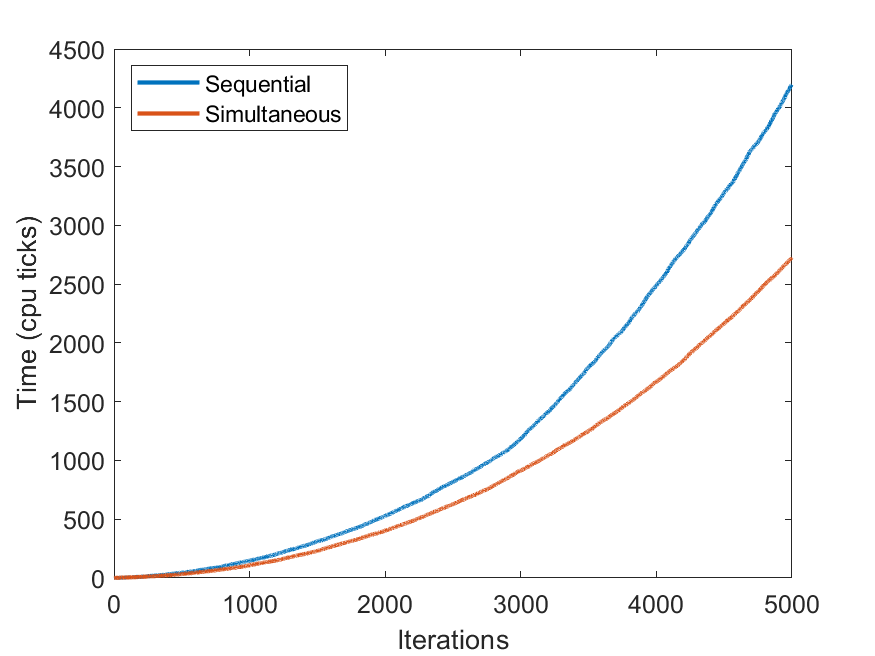
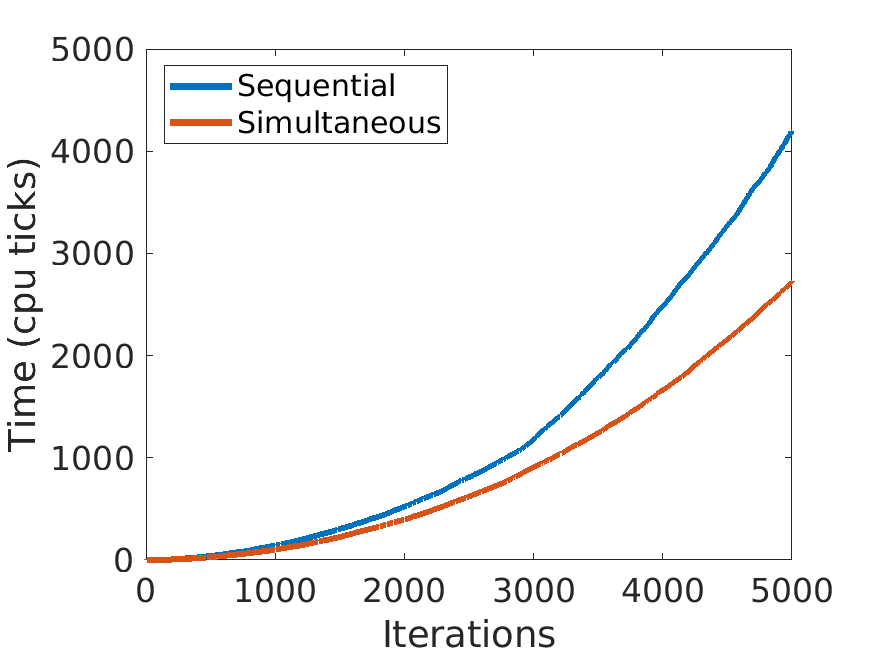
updating paper figures

diff --git a/paper_figures/plot_traj.m b/paper_figures/plot_traj.m
@@ -1,48 +1,102 @@
-%% simultaneous
-load window_3\simultaneous\traj.mat
-d1 = full_path(:,1:7);
-d2 = full_path(:,[1,8:13]);
-d3 = full_path(:,[1,14:19]);
+%% Window 3
+if(true)
+    %% Sequential
+    load no_obstacle_2d/sequential/Drone1Traj.mat
+    d1 = full_path;
+    load no_obstacle_2d/sequential/Drone2Traj.mat
+    d2 = full_path;
 
-% TODO: Add a collision check here
-figure(1)
-% patch([d1(:,2);nan],[d1(:,3);nan],[d1(:,4);nan],[d1(:,1)/max(d1(:,1));nan],'EdgeColor','interp','FaceColor','none','LineWidth',5);
-% hold on;
-% patch([d2(:,2);nan],[d2(:,3);nan],[d2(:,4);nan],[d2(:,1)/max(d2(:,1));nan],'EdgeColor','interp','FaceColor','none','LineWidth',5);
-% hold on;
-% patch([d3(:,2);nan],[d3(:,3);nan],[d3(:,4);nan],[d3(:,1)/max(d3(:,1));nan],'EdgeColor','interp','FaceColor','none','LineWidth',5);
-plot3(d1(:,2),d1(:,3),d1(:,4),'b','LineWidth',3);
-hold on;
-plot3(d2(:,2),d2(:,3),d2(:,4),'g','LineWidth',3);
-hold on;
-plot3(d3(:,2),d3(:,3),d3(:,4),'c','LineWidth',3);
-plot3([-.25,-.25],[-.5,-1],[3,3],'k','LineWidth',5)
-xlim([-1.5,1])
-ylim([-1.5,1])
-view(2)
-saveas(gcf,"simultaneous.png")
-%% Sequential
-load window_3\sequential\Drone1Traj.mat
-d1 = full_path;
-load window_3\sequential\Drone2Traj.mat
-d2 = full_path;
-load window_3\sequential\Drone3Traj.mat
-d3 = full_path;
+    % TODO: Add a collision check here
+    %figure(2)
+    % patch([d1(:,2);nan],[d1(:,3);nan],[d1(:,4);nan],[d1(:,1)/max(d1(:,1));nan],'EdgeColor','interp','FaceColor','none','LineWidth',5);
+    % hold on;
+    % patch([d2(:,2);nan],[d2(:,3);nan],[d2(:,4);nan],[d2(:,1)/max(d2(:,1));nan],'EdgeColor','interp','FaceColor','none','LineWidth',5);
+    % hold on;
+    % patch([d3(:,2);nan],[d3(:,3);nan],[d3(:,4);nan],[d3(:,1)/max(d3(:,1));nan],'EdgeColor','interp','FaceColor','none','LineWidth',5);
+    plot(d1(:,2),d1(:,3),'LineWidth',3);
+    hold on;
+    ax = gca
+    ax.ColorOrderIndex = 1;
+    plot(d2(:,2),d2(:,3),'--','LineWidth',3);
+    hold on
+    xlim([0,1])
+    ylim([0,1])
+    view(2)
+    %% simultaneous
+    if(false)
+        load no_obstacle_2d\simultaneous\traj.mat
+        d1 = full_path(:,1:5);
+        d2 = full_path(:,[1,6:9]);
 
-% TODO: Add a collision check here
-figure(2)
-% patch([d1(:,2);nan],[d1(:,3);nan],[d1(:,4);nan],[d1(:,1)/max(d1(:,1));nan],'EdgeColor','interp','FaceColor','none','LineWidth',5);
-% hold on;
-% patch([d2(:,2);nan],[d2(:,3);nan],[d2(:,4);nan],[d2(:,1)/max(d2(:,1));nan],'EdgeColor','interp','FaceColor','none','LineWidth',5);
-% hold on;
-% patch([d3(:,2);nan],[d3(:,3);nan],[d3(:,4);nan],[d3(:,1)/max(d3(:,1));nan],'EdgeColor','interp','FaceColor','none','LineWidth',5);
-plot3(d1(:,2),d1(:,3),d1(:,4),'b','LineWidth',3);
-hold on;
-plot3(d2(:,2),d2(:,3),d2(:,4),'g','LineWidth',3);
-hold on;
-plot3(d3(:,2),d3(:,3),d3(:,4),'c','LineWidth',3);
-plot3([-.25,-.25],[-.5,-1],[3,3],'k','LineWidth',5)
-xlim([-1.5,1])
-ylim([-1.5,1])
-view(2)
-saveas(gcf,"sequential.png")
+        % TODO: Add a collision check here
+        figure(1)
+        % patch([d1(:,2);nan],[d1(:,3);nan],[d1(:,4);nan],[d1(:,1)/max(d1(:,1));nan],'EdgeColor','interp','FaceColor','none','LineWidth',5);
+        % hold on;
+        % patch([d2(:,2);nan],[d2(:,3);nan],[d2(:,4);nan],[d2(:,1)/max(d2(:,1));nan],'EdgeColor','interp','FaceColor','none','LineWidth',5);
+        % hold on;
+        % patch([d3(:,2);nan],[d3(:,3);nan],[d3(:,4);nan],[d3(:,1)/max(d3(:,1));nan],'EdgeColor','interp','FaceColor','none','LineWidth',5);
+        plot(d1(:,2),d1(:,3),'b','LineWidth',3);
+        hold on;
+        ax = gca
+        ax.ColorOrderIndex = 2;
+        plot(d2(:,2),d2(:,3),'b--','LineWidth',3);
+        hold on;
+        xlim([0,1])
+        ylim([0,1])
+        view(2)
+    end
+    
+        saveas(gcf,"no_obstacle_2d/composite.png")
+end
+
+%% Window 3
+if(false)
+    %% simultaneous
+    load window_3\simultaneous\traj.mat
+    d1 = full_path(:,1:7);
+    d2 = full_path(:,[1,8:13]);
+    d3 = full_path(:,[1,14:19]);
+
+    % TODO: Add a collision check here
+    figure(1)
+    % patch([d1(:,2);nan],[d1(:,3);nan],[d1(:,4);nan],[d1(:,1)/max(d1(:,1));nan],'EdgeColor','interp','FaceColor','none','LineWidth',5);
+    % hold on;
+    % patch([d2(:,2);nan],[d2(:,3);nan],[d2(:,4);nan],[d2(:,1)/max(d2(:,1));nan],'EdgeColor','interp','FaceColor','none','LineWidth',5);
+    % hold on;
+    % patch([d3(:,2);nan],[d3(:,3);nan],[d3(:,4);nan],[d3(:,1)/max(d3(:,1));nan],'EdgeColor','interp','FaceColor','none','LineWidth',5);
+    plot3(d1(:,2),d1(:,3),d1(:,4),'b','LineWidth',3);
+    hold on;
+    plot3(d2(:,2),d2(:,3),d2(:,4),'g','LineWidth',3);
+    hold on;
+    plot3(d3(:,2),d3(:,3),d3(:,4),'c','LineWidth',3);
+    plot3([-.25,-.25],[-.5,-1],[3,3],'k','LineWidth',5)
+    xlim([-1.5,1])
+    ylim([-1.5,1])
+    view(2)
+    saveas(gcf,"simultaneous.png")
+    %% Sequential
+    load window_3\sequential\Drone1Traj.mat
+    d1 = full_path;
+    load window_3\sequential\Drone2Traj.mat
+    d2 = full_path;
+    load window_3\sequential\Drone3Traj.mat
+    d3 = full_path;
+
+    % TODO: Add a collision check here
+    figure(2)
+    % patch([d1(:,2);nan],[d1(:,3);nan],[d1(:,4);nan],[d1(:,1)/max(d1(:,1));nan],'EdgeColor','interp','FaceColor','none','LineWidth',5);
+    % hold on;
+    % patch([d2(:,2);nan],[d2(:,3);nan],[d2(:,4);nan],[d2(:,1)/max(d2(:,1));nan],'EdgeColor','interp','FaceColor','none','LineWidth',5);
+    % hold on;
+    % patch([d3(:,2);nan],[d3(:,3);nan],[d3(:,4);nan],[d3(:,1)/max(d3(:,1));nan],'EdgeColor','interp','FaceColor','none','LineWidth',5);
+    plot3(d1(:,2),d1(:,3),d1(:,4),'b','LineWidth',3);
+    hold on;
+    plot3(d2(:,2),d2(:,3),d2(:,4),'g','LineWidth',3);
+    hold on;
+    plot3(d3(:,2),d3(:,3),d3(:,4),'c','LineWidth',3);
+    plot3([-.25,-.25],[-.5,-1],[3,3],'k','LineWidth',5)
+    xlim([-1.5,1])
+    ylim([-1.5,1])
+    view(2)
+    saveas(gcf,"sequential.png")
+end

diff --git a/paper_figures/cost_figures.m b/paper_figures/cost_figures.m
@@ -1,11 +1,12 @@
 clear all
 clc
-do_obstacle_course = true;
-do_no_obstacles = true;
-do_no_obstacles_2 = false;
-do_window_2 = true;
-do_window_3 = true;
-
+do_obstacle_course = false;
+do_no_obstacles = false;
+do_no_obstacles_2 = true;
+do_window_2 = false;
+do_window_3 = false;
+line_width = 2;
+font_size = 12;
 %% no_obstacle_2
 if do_no_obstacles_2
     setup = "no_obstacle_2d";
@@ -68,12 +69,14 @@ if do_no_obstacles_2
 %     legend(["Sequential" , "Simultaneous"])
 
 %     subplot(2,1,2)
-    plot(seq_costs(:,1),seq_costs(:,2));
-    hold on;
-%     plot(sim_costs(:,1),sim_costs(:,2));
+    
+    plot(seq_costs(:,1),seq_costs(:,2),'LineWidth',line_width);
+%     hold on;
+%     plot(sim_costs(:,1),sim_costs(:,2),'LineWidth',line_width);
     %title("No Obstacle Costs")
-%     legend(["Sequential" , "Simultaneous"])
+    legend(["Sequential" , "Simultaneous"])
     xlabel("Iterations")
+    set(gca,'FontSize', font_size);
     ylabel("Cost")
     saveas(gcf,strcat(setup,'_cost.png'))
 end
@@ -139,12 +142,13 @@ if do_no_obstacles
 %     legend(["Sequential" , "Simultaneous"])
 
 %     subplot(2,1,2)
-    plot(seq_costs(:,1),seq_costs(:,2),'LineWidth',2);
+    plot(seq_costs(:,1),seq_costs(:,2),'LineWidth',line_width);
     hold on;
-    plot(sim_costs(:,1),sim_costs(:,2),'LineWidth',2);
+    plot(sim_costs(:,1),sim_costs(:,2),'LineWidth',line_width);
     %title("No Obstacle Costs")
     legend(["Sequential" , "Simultaneous"])
     xlabel("Iterations")
+    set(gca,'FontSize', font_size);
     ylabel("Cost")
     saveas(gcf,strcat(setup,'_cost.png'))
 end
@@ -208,15 +212,15 @@ if do_obstacle_course
     min_durs = min([seq1_durs(:,2),seq2_durs(:,2)],[],2);
     seq_costs = [seq1_costs(:,1),seq1_costs(:,2)+seq2_costs(:,2)-min_durs(:)];
 
-    plot(seq_costs(:,1),seq_costs(:,2),'LineWidth',2);
+    plot(seq_costs(:,1),seq_costs(:,2),'LineWidth',line_width);
     hold on;
-    plot(sim_costs(:,1),sim_costs(:,2),'LineWidth',2);
+    plot(sim_costs(:,1),sim_costs(:,2),'LineWidth',line_width);
     %title("Costs")
-    lgd = legend(["Sequential" , "Simultaneous"])
+    %lgd = legend(["Sequential" , "Simultaneous"])
     %title("Obstacle Course Costs")
     xlabel("Iterations")
     ylabel("Cost")
-    set(gca,'FontSize', 12);
+    set(gca,'FontSize', font_size);
     saveas(gcf,strcat(setup,'_cost.png'))
 end
 
@@ -288,14 +292,14 @@ if do_window_2
 % 
 %     subplot(2,1,2)
 
-    plot(seq_costs(:,1),seq_costs(:,2),'LineWidth',2);
+    plot(seq_costs(:,1),seq_costs(:,2),'LineWidth',line_width);
     hold on;
-    plot(sim_costs(:,1),sim_costs(:,2),'LineWidth',2);
-    legend(["Sequential" , "Simultaneous"])
+    plot(sim_costs(:,1),sim_costs(:,2),'LineWidth',line_width);
+    %legend(["Sequential" , "Simultaneous"])
     %title("Window 2 Costs")
     xlabel("Iterations")
     ylabel("Cost")
-    set(gca,'FontSize', 12);
+    set(gca,'FontSize', font_size);
     saveas(gcf,strcat(setup,'_cost.png'))
 end
 
@@ -375,15 +379,15 @@ if do_window_3
 
    
     figure()
-    plot(seq_costs(:,1),seq_costs(:,2),'LineWidth',2);
+    plot(seq_costs(:,1),seq_costs(:,2),'LineWidth',line_width);
     hold on;
-    plot(sim_costs(:,1),sim_costs(:,2),'LineWidth',2);
+    plot(sim_costs(:,1),sim_costs(:,2),'LineWidth',line_width);
     %title("Costs")
-    legend(["Sequential" , "Simultaneous"])
-    legend('Location','northwest')
+    %legend(["Sequential" , "Simultaneous"])
+    %legend('Location','northwest')
     %title("Window 3 Costs")
     xlabel("Iterations")
     ylabel("Cost")
-    set(gca,'FontSize', 12);
+    set(gca,'FontSize', font_size);
     saveas(gcf,strcat(setup,'_cost.png'))
 end

diff --git a/paper_figures/timing_figures.m b/paper_figures/timing_figures.m
@@ -3,6 +3,9 @@ do_obstacle_course = true;
 do_window_2 = true;
 do_window_3 = true;
 
+line_width = 3;
+font_size = 16;
+
 %% no_obstacle
 if do_no_obstacle
     setup = "no_obstacle";
@@ -12,13 +15,13 @@ if do_no_obstacle
     seq_times2 = iteration_times;
 
     figure()
-    plot(seq_times2(:,1),seq_times2(:,2)-min(seq_times2(:,2)),sim_times(:,1),sim_times(:,2)-min(sim_times(:,2)),'LineWidth',2)
+    plot(seq_times2(:,1),seq_times2(:,2)-min(seq_times2(:,2)),sim_times(:,1),sim_times(:,2)-min(sim_times(:,2)),'LineWidth', line_width)
     legend([ "Sequential","Simultaneous"])
     %title("No Obstacles")
     xlabel("Iterations")
     ylabel("Time (cpu ticks)")
-    legend('Location','northwest')
-    set(gca,'FontSize', 12);
+     legend('Location','northwest')
+    set(gca,'FontSize', font_size);
     saveas(gcf,strcat(setup,'_times.png'))
 end
 
@@ -34,13 +37,13 @@ if do_obstacle_course
     sum_times = seq_times2(:,2)+seq_times1(:,2);
 
     figure()
-    plot(seq_times2(:,1),sum_times-min(sum_times),sim_times(:,1),sim_times(:,2)-min(sim_times(:,2)),'LineWidth',2)
-    legend(["Sequential","Simultaneous"])
+    plot(seq_times2(:,1),sum_times-min(sum_times),sim_times(:,1),sim_times(:,2)-min(sim_times(:,2)),'LineWidth', line_width)
+%     legend(["Sequential","Simultaneous"])
     %title("Obstacle Course")
     xlabel("Iterations")
     ylabel("Time (cpu ticks)")
-    legend('Location','northwest')
-    set(gca,'FontSize', 12);
+%     legend('Location','northwest')
+    set(gca,'FontSize', font_size);
     saveas(gcf,strcat(setup,'_times.png'))
 end
 
@@ -55,13 +58,13 @@ if do_window_2
     seq_times2 = iteration_times;
     sum_times = seq_times2(:,2)+seq_times1(:,2);
     figure()
-    plot(seq_times2(:,1),sum_times-min(sum_times),sim_times(:,1),sim_times(:,2)-min(sim_times(:,2)),'LineWidth',2)
-    legend(["Sequential","Simultaneous"])
+    plot(seq_times2(:,1),sum_times-min(sum_times),sim_times(:,1),sim_times(:,2)-min(sim_times(:,2)),'LineWidth', line_width)
+%     legend(["Sequential","Simultaneous"])
     %title("Window 2")
     xlabel("Iterations")
     ylabel("Time (cpu ticks)")
-    legend('Location','northwest')
-    set(gca,'FontSize', 12);
+%     legend('Location','northwest')
+    set(gca,'FontSize', font_size);
     saveas(gcf,strcat(setup,'_times.png'))
 end
 
@@ -79,12 +82,12 @@ if do_window_3
     sum_times = seq_times3(:,2)+seq_times2(:,2)+seq_times1(:,2);
 
     figure()
-    plot(seq_times2(:,1),sum_times-min(sum_times),sim_times(:,1),sim_times(:,2)-min(sim_times(:,2)),'LineWidth',2)
-    legend([ "Sequential","Simultaneous"])
+    plot(seq_times2(:,1),sum_times-min(sum_times),sim_times(:,1),sim_times(:,2)-min(sim_times(:,2)),'LineWidth', line_width)
+%     legend([ "Sequential","Simultaneous"])
     %title("Window 3")
     xlabel("Iterations")
     ylabel("Time (cpu ticks)")
-    legend('Location','northwest')
-    set(gca,'FontSize', 12);
+%     legend('Location','northwest')
+    set(gca,'FontSize', font_size);
     saveas(gcf,strcat(setup,'_times.png'))
 end
